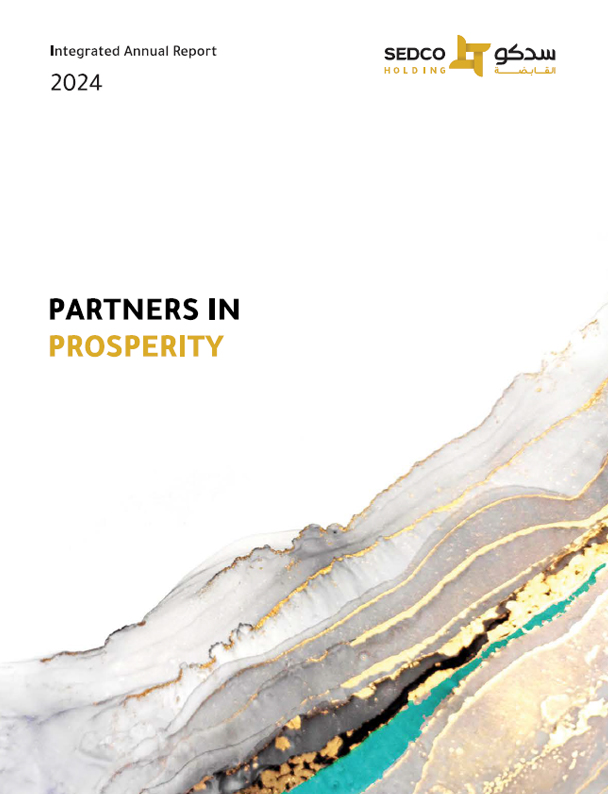
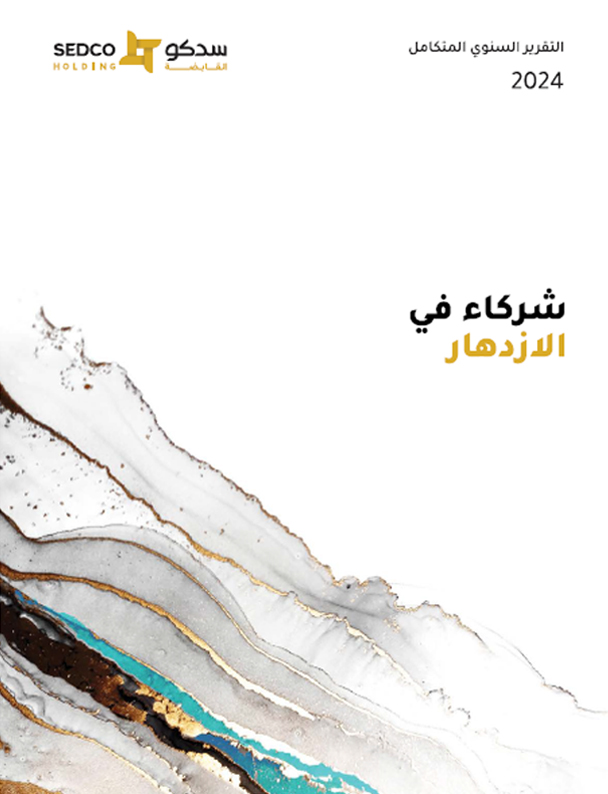
add

diff --git a/ar/services/download_center.html b/ar/services/download_center.html
@@ -648,7 +648,7 @@
 							<div class="section-header-main services">
 								<div class="section-header-main-firstcolumn services">
 									<div class="section-header-main-title services">
-										<h1>Download Center</h1>
+										<h1> مركز التحميل </h1>
 										<div class="section-header-main-title-bgbox bg-yellow services"></div>	
 										<img src="../assets/images/sec-titleimage.svg" class="img-fluid section-header-main-title-bg-services" data-speed="0.8" alt="" />
 									</div>	
@@ -1695,9 +1695,9 @@
 											<div class="thecard card-img">
 											  <img src="../assets/images/cover.jpg" alt="SEDCO Integrated Annual Report 2024 Cover">
 											  <div class="card-caption">
-												<h1>Annual Report 2024</h1>
+												<h1> التقرير السنوي المتكامل لعام 2024 </h1>
 											  </div>
-											  <a class="card-outmore" href="./pdf/SEDCO_Integrated_Annual_Report_2024_English.pdf" target="_blank">Download Report
+											  <a class="card-outmore" href="pdf/SEDCO_Integrated_Annual_Report_2024_Arabic.pdf" target="_blank">التقرير السنوي الكامل
 												<i class="fa fa-download"></i>
 											  </a>
 											</div>

diff --git a/ar/assets/css/download-center.css b/ar/assets/css/download-center.css
@@ -24,7 +24,7 @@
   margin-bottom: 20px;
   text-decoration-line: none;
   font-weight: 400;
-  color: #B48E2E !important;
+  color: #B48E2E !important; text-align: right;
 }
 
 .frwrap {
@@ -219,6 +219,7 @@ vertical-align: middle;
   width: 100%;
   font-size: 14px;
   background-image: #efefef;
+	  text-align: right;
 }
 
 .thecard:hover .card-outmore {

diff --git a/ar/assets/css/myreportpanel.css b/ar/assets/css/myreportpanel.css
@@ -113,7 +113,7 @@ body.tt-sliding-cart-open .scrollbar-track {
 }
 .tt-sliding-cart-heading {
   margin: 0;
-  padding: 40px 0 20px 0;
+  padding: 60px 0 20px 0;
   margin: 0 6% 30px 6%;
   font-size: 26px;
   border-bottom: 2px solid rgb(120 120 120 / 25%);
